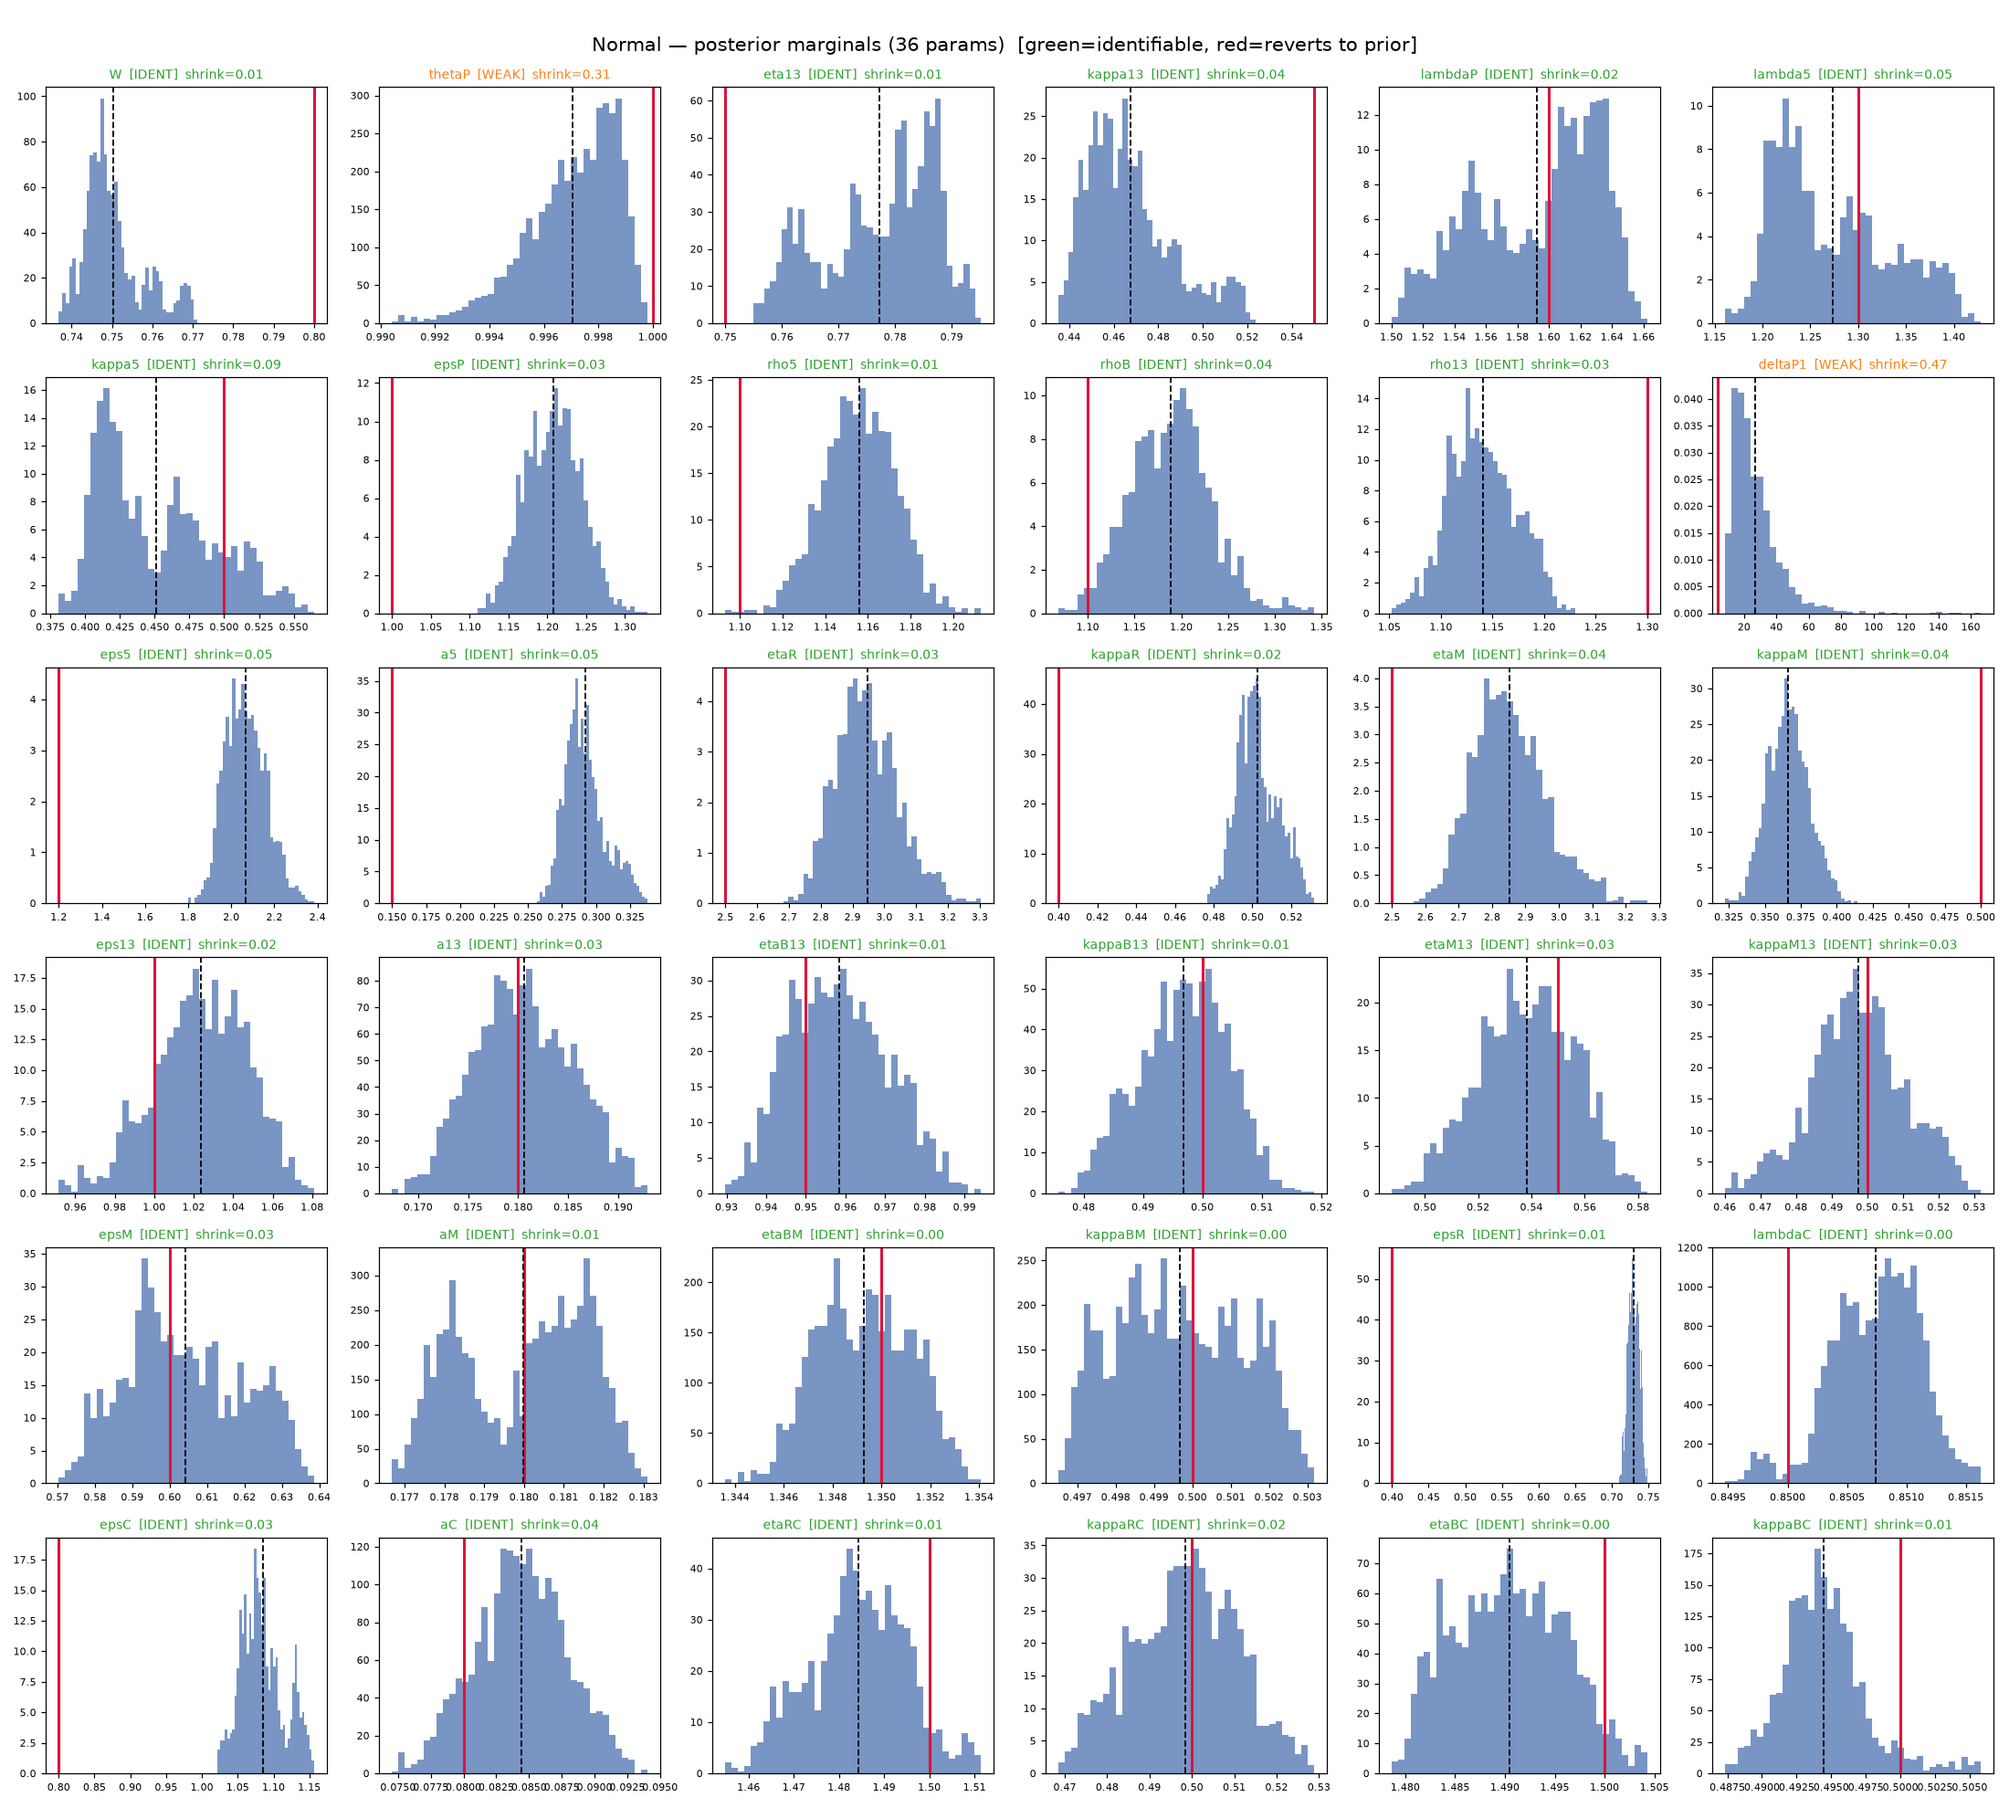
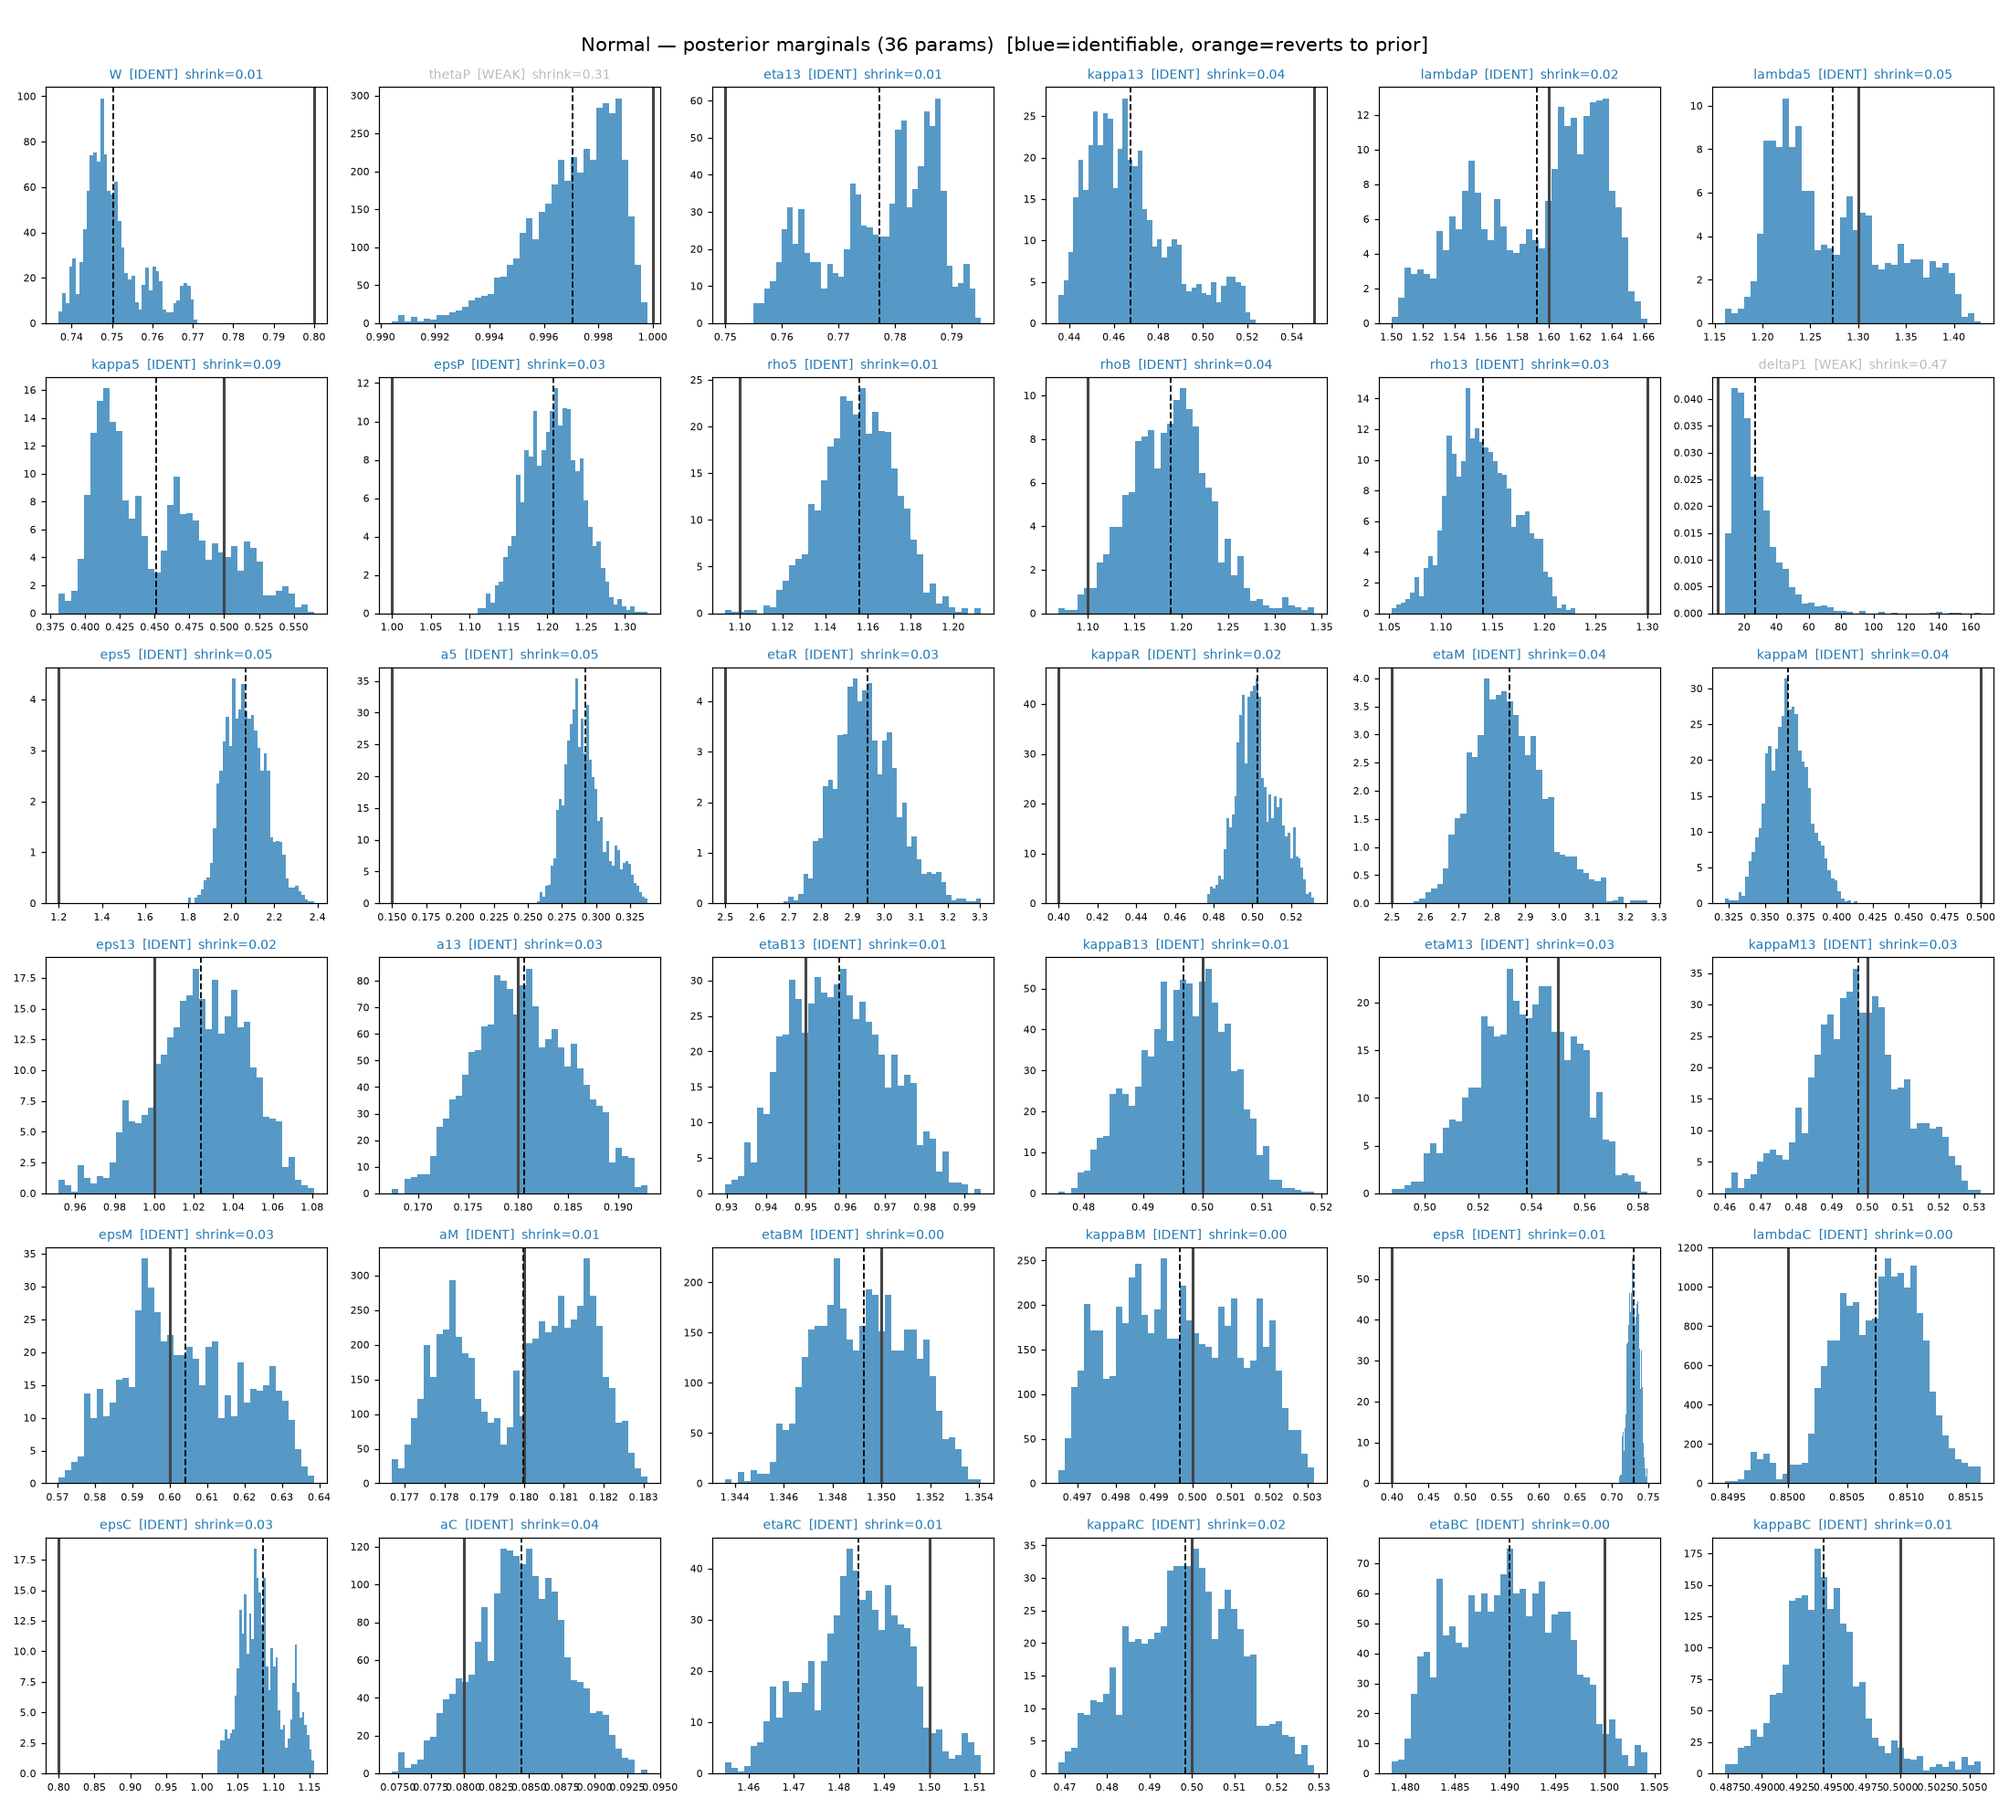
PINN-bayesian: recolor posterior marginals & identifiability figures to SA-big palette
Match the professor's SA palette across the marginal histograms, W/thetaP panels, and the aggregate identifiability heatmap (blue IDENT, grey WEAK, orange NON-IDENT; RdYlGn_r heatmap -> Oranges). Regenerated PNGs for the 20260712 run.

diff --git a/PINN-bayesian/bayesian_infer.py b/PINN-bayesian/bayesian_infer.py
@@ -473,13 +473,13 @@ def plot_marginals(V, summary, true_vals, sigma_prior_vec, out_dir, safe):
     for i, k in enumerate(UNKNOWN):
         ax = axes.flat[i]
         vals = V[:, i]
-        ax.hist(vals, bins=40, density=True, color="#4c72b0", alpha=0.75)
+        ax.hist(vals, bins=40, density=True, color="#1f77b4", alpha=0.75)
         tv = true_vals[k]
-        ax.axvline(tv, color="crimson", lw=2, label="true")
+        ax.axvline(tv, color="#444444", lw=2, label="true")
         ax.axvline(summary[k]["post_mean"], color="k", ls="--", lw=1.2,
                    label="post mean")
-        col = {"IDENT": "#2ca02c", "WEAK": "#ff7f0e",
-               "NON-IDENT": "#d62728"}[summary[k]["verdict"]]
+        col = {"IDENT": "#1f77b4", "WEAK": "#bbbbbb",
+               "NON-IDENT": "#ff7f0e"}[summary[k]["verdict"]]
         ax.set_title(f"{k}  [{summary[k]['verdict']}]  "
                      f"shrink={summary[k]['shrink_vs_prior']:.2f}",
                      fontsize=9, color=col)
@@ -487,7 +487,7 @@ def plot_marginals(V, summary, true_vals, sigma_prior_vec, out_dir, safe):
     for j in range(len(UNKNOWN), nrow * ncol):
         axes.flat[j].axis("off")
     fig.suptitle(f"{safe} — posterior marginals (36 params)  "
-                 f"[green=identifiable, red=reverts to prior]", fontsize=14)
+                 f"[blue=identifiable, orange=reverts to prior]", fontsize=14)
     fig.tight_layout(rect=[0, 0, 1, 0.99])
     fig.savefig(os.path.join(out_dir, f"{safe}_marginals.png"), dpi=110)
     plt.close(fig)
@@ -496,8 +496,8 @@ def plot_marginals(V, summary, true_vals, sigma_prior_vec, out_dir, safe):
     fig, axes = plt.subplots(1, 2, figsize=(11, 4))
     for ax, k in zip(axes, ["W", "thetaP"]):
         i = UNKNOWN.index(k)
-        ax.hist(V[:, i], bins=45, density=True, color="#4c72b0", alpha=0.8)
-        ax.axvline(true_vals[k], color="crimson", lw=2, label="true")
+        ax.hist(V[:, i], bins=45, density=True, color="#1f77b4", alpha=0.8)
+        ax.axvline(true_vals[k], color="#cc3333", lw=2, label="true")
         ax.set_title(f"{safe}: {k}  [{summary[k]['verdict']}]  "
                      f"post={summary[k]['post_mean']:.3f}"
                      f"±{summary[k]['post_std']:.3f}")

diff --git a/PINN-bayesian/aggregate_marginals.py b/PINN-bayesian/aggregate_marginals.py
@@ -23,8 +23,8 @@ REGIME_ORDER = ["Normal", "Early_Adenoma", "Advanced_Adenoma", "Severe_APC_Loss"
 REGIME_LABEL = {"Normal": "Normal", "Early_Adenoma": "Early Adenoma",
                 "Advanced_Adenoma": "Advanced Adenoma",
                 "Severe_APC_Loss": "Severe APC Loss"}
-COLORS = {"Normal": "#2ca02c", "Early_Adenoma": "#1f77b4",
-          "Advanced_Adenoma": "#ff7f0e", "Severe_APC_Loss": "#d62728"}
+COLORS = {"Normal": "#1f77b4", "Early_Adenoma": "#ff7f0e",
+          "Advanced_Adenoma": "#888888", "Severe_APC_Loss": "#444444"}
 
 
 def load_run(run_dir):
@@ -94,7 +94,7 @@ def plot_identifiability(data, run_dir):
 
     # left: stacked verdict counts per regime
     cats = ["IDENT", "WEAK", "NON-IDENT"]
-    ccol = {"IDENT": "#2ca02c", "WEAK": "#ff7f0e", "NON-IDENT": "#d62728"}
+    ccol = {"IDENT": "#1f77b4", "WEAK": "#bbbbbb", "NON-IDENT": "#ff7f0e"}
     counts = {c: [] for c in cats}
     for safe in regimes:
         summ = data[safe]["summary"]
@@ -114,7 +114,7 @@ def plot_identifiability(data, run_dir):
     a0.legend(fontsize=9)
 
     # right: heatmap
-    im = a1.imshow(H, aspect="auto", cmap="RdYlGn_r", vmin=0, vmax=1)
+    im = a1.imshow(H, aspect="auto", cmap="Oranges", vmin=0, vmax=1)
     a1.set_yticks(np.arange(len(names)))
     a1.set_yticklabels(names, fontsize=7)
     a1.set_xticks(np.arange(len(regimes)))
